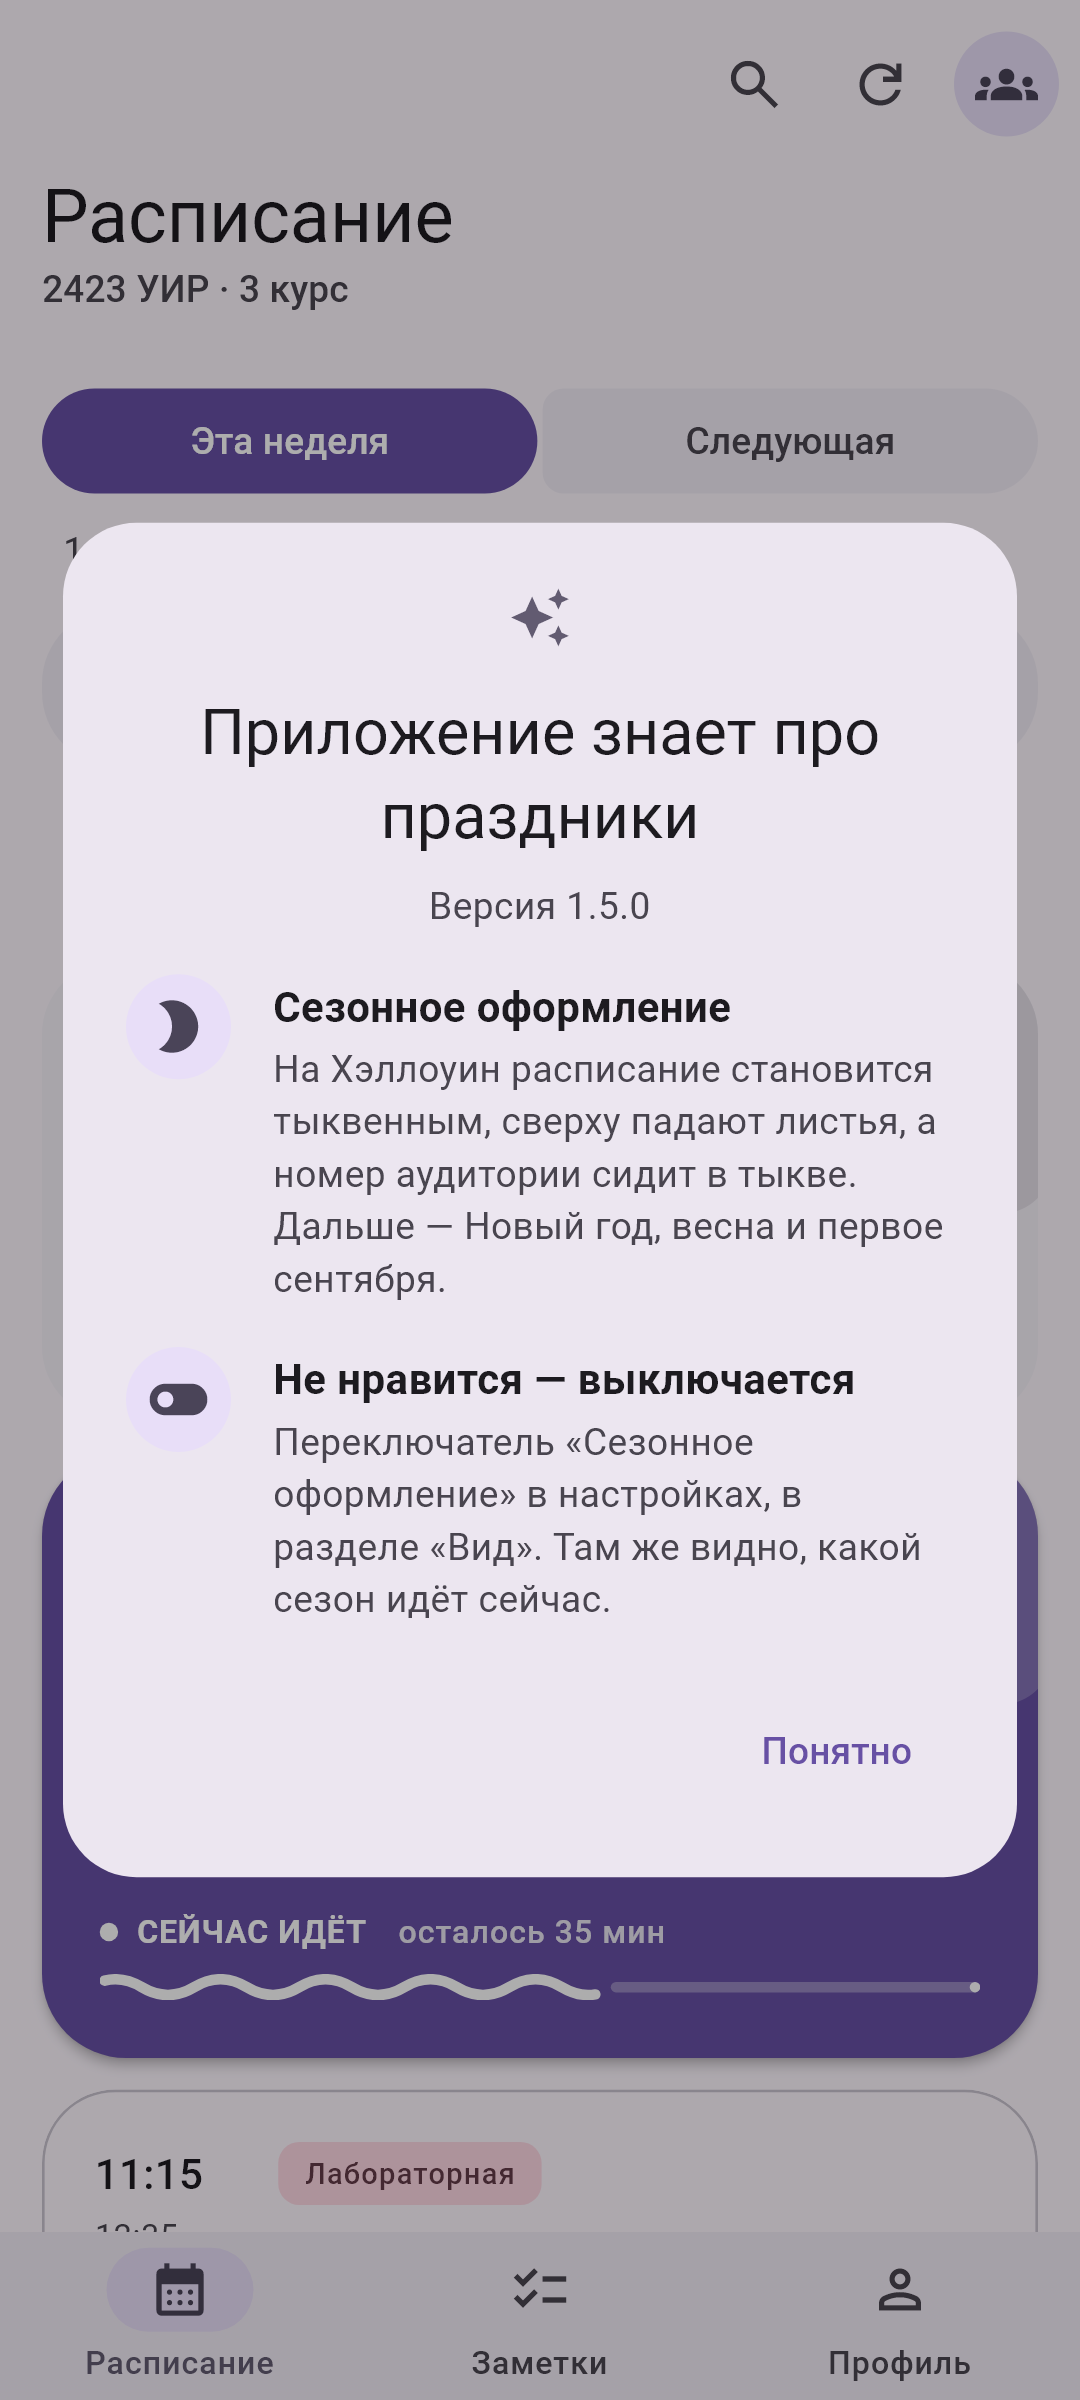
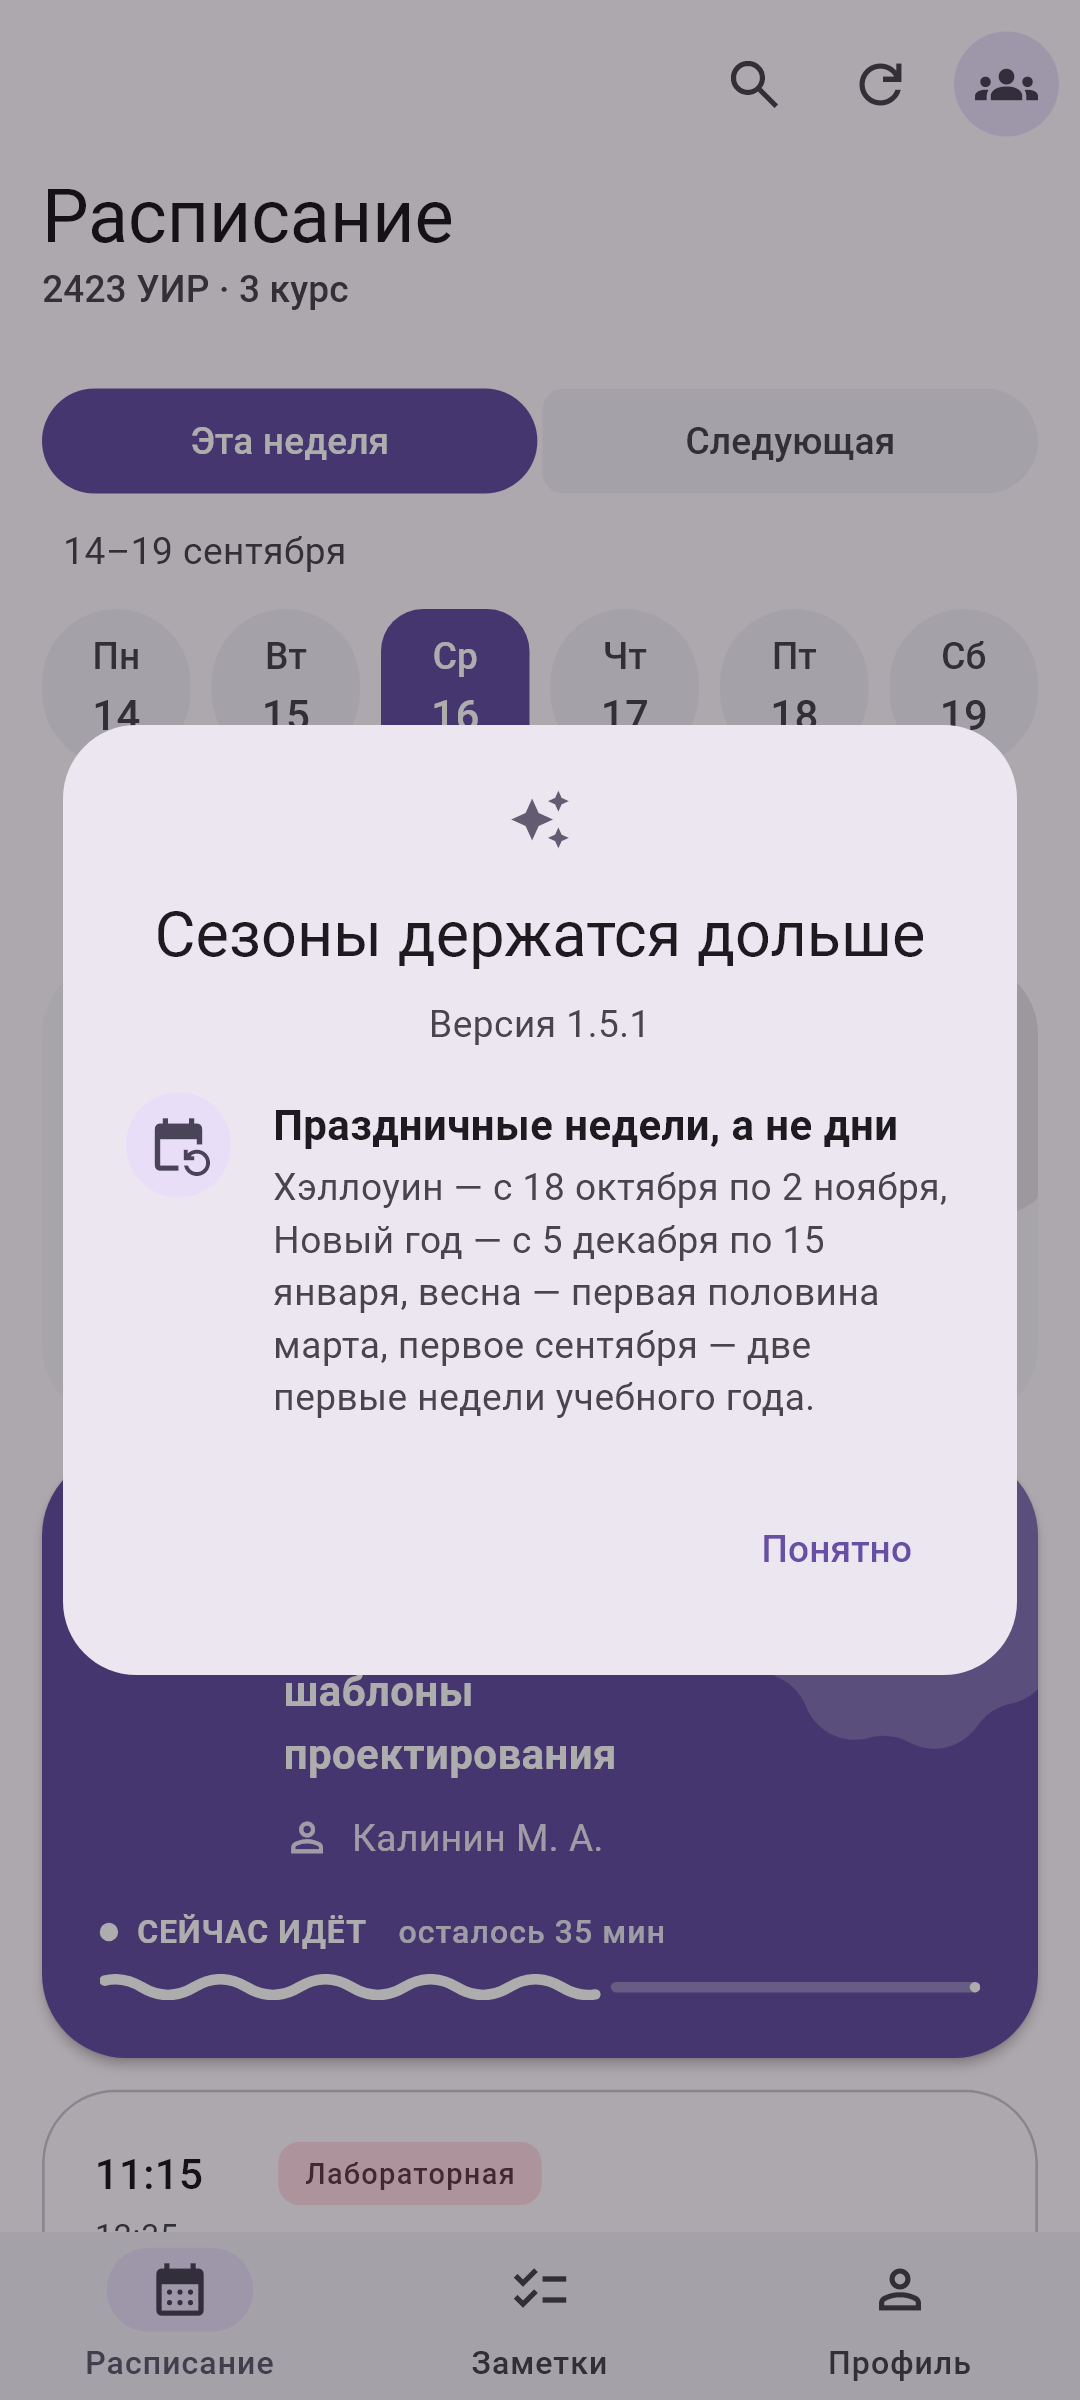
Сезоны держатся дольше, и все четыре — на скриншотах
Окна в три дня половина группы не увидит вовсе: Хэллоуин теперь с 18 октября
по 2 ноября, Новый год — с 5 декабря по 15 января, весна — первая половина
марта, первое сентября — две первые недели учебного года.

Генератор снимает каждый сезон в обеих темах, из восьми кадров собирается
общая картинка для README.

Changed region(s): [[0.0611, 0.2188, 0.9472, 0.7812], [0.1222, 0.5625, 0.1833, 0.5938], [0.1222, 0.4688, 0.1833, 0.5]]

diff --git a/test/screenshot_generator.dart b/test/screenshot_generator.dart
@@ -67,7 +67,7 @@ Future<void> _pumpApp(
   WidgetTester tester, {
   required bool dark,
   double balance = 67,
-  String appVersion = '1.5.0 (8)',
+  String appVersion = '1.5.1 (9)',
   List<ScheduleWeek>? weeks,
   DateTime? now,
   Map<String, Object> preferences = const {},
@@ -86,7 +86,7 @@ Future<void> _pumpApp(
     'student.number': FakeStudentApi.number,
     'profile.avatar': _avatarPath,
     // Окно «Что нового» всплывает только там, где оно и нужно.
-    'app.lastSeenVersion': '1.5.0',
+    'app.lastSeenVersion': '1.5.1',
     ...preferences,
   });
   final SharedPreferences prefs = await SharedPreferences.getInstance();
@@ -415,60 +415,67 @@ void main() {
     await _capture(tester, '18-teacher-load-light');
   });
 
-  for (final bool seasonDark in [false, true]) {
-    _shot('скриншот сезонного оформления — ${seasonDark ? 'dark' : 'light'}', (
-      tester,
-    ) async {
-      // Канун Хэллоуина: тыквенная схема и падающие листья.
-      final DateTime halloween = DateTime(2026, 10, 30, 10, 30);
-      Lesson lesson(String start, String end, String title, String room) =>
-          Lesson(
-            start: start,
-            end: end,
-            title: title,
-            type: LessonType.lecture,
-            typeLabel: LessonType.lecture.label,
-            teacher: 'Гардейчик С. М.',
-            room: room,
-          );
+  // Каждый сезон в обеих темах: один и тот же день, чтобы сравнивать.
+  final List<(String, DateTime)> seasonDays = [
+    ('halloween', DateTime(2026, 10, 30, 10, 30)),
+    ('new-year', DateTime(2026, 12, 25, 10, 30)),
+    ('spring', DateTime(2027, 3, 4, 10, 30)),
+    ('first-bell', DateTime(2026, 9, 2, 10, 30)),
+  ];
+  for (final (String id, DateTime day) in seasonDays) {
+    for (final bool seasonDark in [false, true]) {
+      _shot('скриншот сезона $id — ${seasonDark ? 'dark' : 'light'}', (
+        tester,
+      ) async {
+        Lesson lesson(String start, String end, String title, String room) =>
+            Lesson(
+              start: start,
+              end: end,
+              title: title,
+              type: LessonType.lecture,
+              typeLabel: LessonType.lecture.label,
+              teacher: 'Гардейчик С. М.',
+              room: room,
+            );
 
-      await _pumpApp(
-        tester,
-        dark: seasonDark,
-        now: halloween,
-        weeks: [
-          ScheduleWeek(
-            label: 'Текущая неделя',
-            days: [
-              ScheduleDay(
-                date: halloween,
-                lessons: [
-                  lesson('09:45', '11:05', 'Системы баз данных', '62 (к)'),
-                  lesson('11:15', '12:35', 'Маркетинг', '71'),
-                  lesson('13:05', '14:25', 'Эконометрика', '71'),
-                ],
-              ),
-              ScheduleDay(
-                date: halloween.add(const Duration(days: 1)),
-                lessons: [lesson('09:45', '11:05', 'Маркетинг', '71')],
-              ),
-            ],
-          ),
-        ],
-      );
-      await _frames(tester, 1500);
-      await _capture(
-        tester,
-        '19-season-halloween-${seasonDark ? 'dark' : 'light'}',
-      );
-    });
+        await _pumpApp(
+          tester,
+          dark: seasonDark,
+          now: day,
+          weeks: [
+            ScheduleWeek(
+              label: 'Текущая неделя',
+              days: [
+                ScheduleDay(
+                  date: day,
+                  lessons: [
+                    lesson('09:45', '11:05', 'Системы баз данных', '62 (к)'),
+                    lesson('11:15', '12:35', 'Маркетинг', '71'),
+                    lesson('13:05', '14:25', 'Эконометрика', '71'),
+                  ],
+                ),
+                ScheduleDay(
+                  date: day.add(const Duration(days: 1)),
+                  lessons: [lesson('09:45', '11:05', 'Маркетинг', '71')],
+                ),
+              ],
+            ),
+          ],
+        );
+        await _frames(tester, 1500);
+        await _capture(
+          tester,
+          '19-season-$id-${seasonDark ? 'dark' : 'light'}',
+        );
+      });
+    }
   }
 
   _shot('скриншот «Что нового»', (tester) async {
     await _pumpApp(
       tester,
       dark: false,
-      preferences: {'app.lastSeenVersion': '1.4.0'},
+      preferences: {'app.lastSeenVersion': '1.5.0'},
     );
     await _frames(tester, 900);
     await _loadImages(tester);

diff --git a/test/seasons_test.dart b/test/seasons_test.dart
@@ -25,17 +25,23 @@ Future<ProviderContainer> _container({
 void main() {
   test('сезон определяется по датам', () {
     expect(seasonOn(DateTime(2026, 10, 31))?.id, 'halloween');
-    expect(seasonOn(DateTime(2026, 10, 25))?.id, 'halloween');
+    expect(seasonOn(DateTime(2026, 10, 18))?.id, 'halloween');
     expect(seasonOn(DateTime(2026, 11, 2))?.id, 'halloween');
+    expect(seasonOn(DateTime(2026, 10, 17)), isNull);
     expect(seasonOn(DateTime(2026, 11, 3)), isNull);
     expect(seasonOn(DateTime(2026, 9, 1))?.id, 'firstBell');
+    expect(seasonOn(DateTime(2026, 9, 14))?.id, 'firstBell');
+    expect(seasonOn(DateTime(2026, 9, 15)), isNull);
     expect(seasonOn(DateTime(2026, 3, 8))?.id, 'spring');
+    expect(seasonOn(DateTime(2026, 3, 15))?.id, 'spring');
   });
 
   test('новогодний сезон переходит через декабрь и январь', () {
+    expect(seasonOn(DateTime(2026, 12, 5))?.id, 'newYear');
     expect(seasonOn(DateTime(2026, 12, 31))?.id, 'newYear');
-    expect(seasonOn(DateTime(2027, 1, 7))?.id, 'newYear');
-    expect(seasonOn(DateTime(2027, 1, 11)), isNull);
+    // Старый Новый год ещё в сезоне, 16 января — уже нет.
+    expect(seasonOn(DateTime(2027, 1, 14))?.id, 'newYear');
+    expect(seasonOn(DateTime(2027, 1, 16)), isNull);
   });
 
   test('обычный учебный день — без оформления', () {
@@ -44,22 +50,23 @@ void main() {
 
   test('ближайший сезон — следующий по календарю', () {
     final (Season season, DateTime starts) = nextSeasonAfter(
-      DateTime(2026, 10, 18),
+      DateTime(2026, 10, 1),
     );
     expect(season.id, 'halloween');
-    expect(starts, DateTime(2026, 10, 25));
+    expect(starts, DateTime(2026, 10, 18));
 
     // Хэллоуин позади — ближайший Новый год.
     final (Season after, DateTime afterStarts) = nextSeasonAfter(
       DateTime(2026, 11, 10),
     );
     expect(after.id, 'newYear');
-    expect(afterStarts, DateTime(2026, 12, 15));
+    expect(afterStarts, DateTime(2026, 12, 5));
 
     // В январе всё сезоны этого года уже прошли, кроме весны.
     final (Season spring, DateTime springStarts) = nextSeasonAfter(
       DateTime(2027, 1, 20),
     );
+    // 20 января сезон уже кончился.
     expect(spring.id, 'spring');
     expect(springStarts, DateTime(2027, 3, 1));
   });

diff --git a/lib/theme/seasons.dart b/lib/theme/seasons.dart
@@ -60,12 +60,14 @@ class Season {
 
 /// Сезоны по порядку в году.
 ///
-/// Узкие окна: оформление должно быть событием, а не фоном на полгода.
+/// Окна широкие: оформление должно успеть попасться на глаза, но не висеть
+/// полгода. Хэллоуин и первое сентября — по две недели, Новый год — от первых
+/// ёлок до старого Нового года, весна — первая половина марта.
 final List<Season> kSeasons = [
   Season(
     id: 'halloween',
     name: 'Хэллоуин',
-    from: (10, 25),
+    from: (10, 18),
     to: (11, 2),
     // Тыквенный оранжевый.
     seed: const Color(0xFFE8700A),
@@ -83,8 +85,8 @@ final List<Season> kSeasons = [
   Season(
     id: 'newYear',
     name: 'Новый год',
-    from: (12, 15),
-    to: (1, 10),
+    from: (12, 5),
+    to: (1, 15),
     // Хвойный зелёный.
     seed: const Color(0xFF1F7A4D),
     icon: Symbols.ac_unit,
@@ -102,7 +104,7 @@ final List<Season> kSeasons = [
     id: 'spring',
     name: 'Весна',
     from: (3, 1),
-    to: (3, 10),
+    to: (3, 15),
     // Цветущий розовый.
     seed: const Color(0xFFD9477E),
     icon: Symbols.local_florist,
@@ -119,7 +121,7 @@ final List<Season> kSeasons = [
     id: 'firstBell',
     name: 'Первое сентября',
     from: (9, 1),
-    to: (9, 7),
+    to: (9, 14),
     // Осенняя охра.
     seed: const Color(0xFFBE8A00),
     icon: Symbols.school,

diff --git a/lib/data/release_notes.dart b/lib/data/release_notes.dart
@@ -43,6 +43,20 @@ class ReleaseNotes {
 /// показывается один раз после обновления.
 const List<ReleaseNotes> kReleaseNotes = [
   ReleaseNotes(
+    version: '1.5.1',
+    headline: 'Сезоны держатся дольше',
+    notes: [
+      ReleaseNote(
+        icon: Symbols.event_repeat,
+        title: 'Праздничные недели, а не дни',
+        text:
+            'Хэллоуин — с 18 октября по 2 ноября, Новый год — с 5 декабря по '
+            '15 января, весна — первая половина марта, первое сентября — две '
+            'первые недели учебного года.',
+      ),
+    ],
+  ),
+  ReleaseNotes(
     version: '1.5.0',
     headline: 'Приложение знает про праздники',
     notes: [

diff --git a/docs/development.md b/docs/development.md
@@ -205,8 +205,10 @@ flutter test integration_test/mitso_tls_test.dart -d <телефон>  # на An
 ## Сезонное оформление
 
 В праздничные дни приложение меняет цвета и добавляет украшения
-(`lib/theme/seasons.dart`): Хэллоуин (25 октября – 2 ноября), Новый год
-(15 декабря – 10 января), весна (1–10 марта) и первое сентября (1–7 сентября).
+(`lib/theme/seasons.dart`): Хэллоуин (18 октября – 2 ноября), Новый год
+(5 декабря – 15 января), весна (1–15 марта) и первое сентября (1–14 сентября).
+Окна широкие нарочно: оформление, которое живёт три дня, половина группы не
+увидит вовсе.
 
 - **Цвет** — схема из сида сезона вариантом `fidelity`: он держится исходного
   цвета, а `expressive` (которым выведены палитры настроек) повернул бы тыквенный

diff --git a/docs/m3/styles/shape.md b/docs/m3/styles/shape.md
@@ -49,7 +49,7 @@
   (Cookie9Sided из правого верхнего угла, выбор заказчика 17.09.2026). Гайд советует абстрактные
   формы для декора, а не для текстовых контейнеров; здесь форма несёт короткий номер и
   обрезана краем карточки — записано в README, п. 21.
-- Сезонное оформление (`lib/theme/seasons.dart`, `lib/widgets/season_decor.dart`): в праздники
+- Сезонное оформление (`lib/theme/seasons.dart`, `lib/widgets/season_decor.dart`): в праздничные недели
   форма под номером аудитории меняется на сезонную (Puffy — тыква, Sunny — снежинка,
   Flower — весна, Cookie9Sided — первое сентября), а сверху расписания падает слой фигур
   (Arch, Fan, Clover4Leaf, Ghostish). Основание — то же «Emphasize aesthetic moments with

diff --git a/README.md b/README.md
@@ -83,6 +83,14 @@
 
 <div align="center">
 
+**Сезоны** — Хэллоуин, Новый год, весна и первое сентября, в светлой и тёмной теме
+
+<img src="docs/screenshots/20-seasons.png" alt="Сезонное оформление" />
+
+</div>
+
+<div align="center">
+
 **Windows** — то же приложение и компактное окно на рабочем столе
 
 <img src="docs/screenshots/11-windows-dark.png" alt="Расписание на Windows" width="300" />
